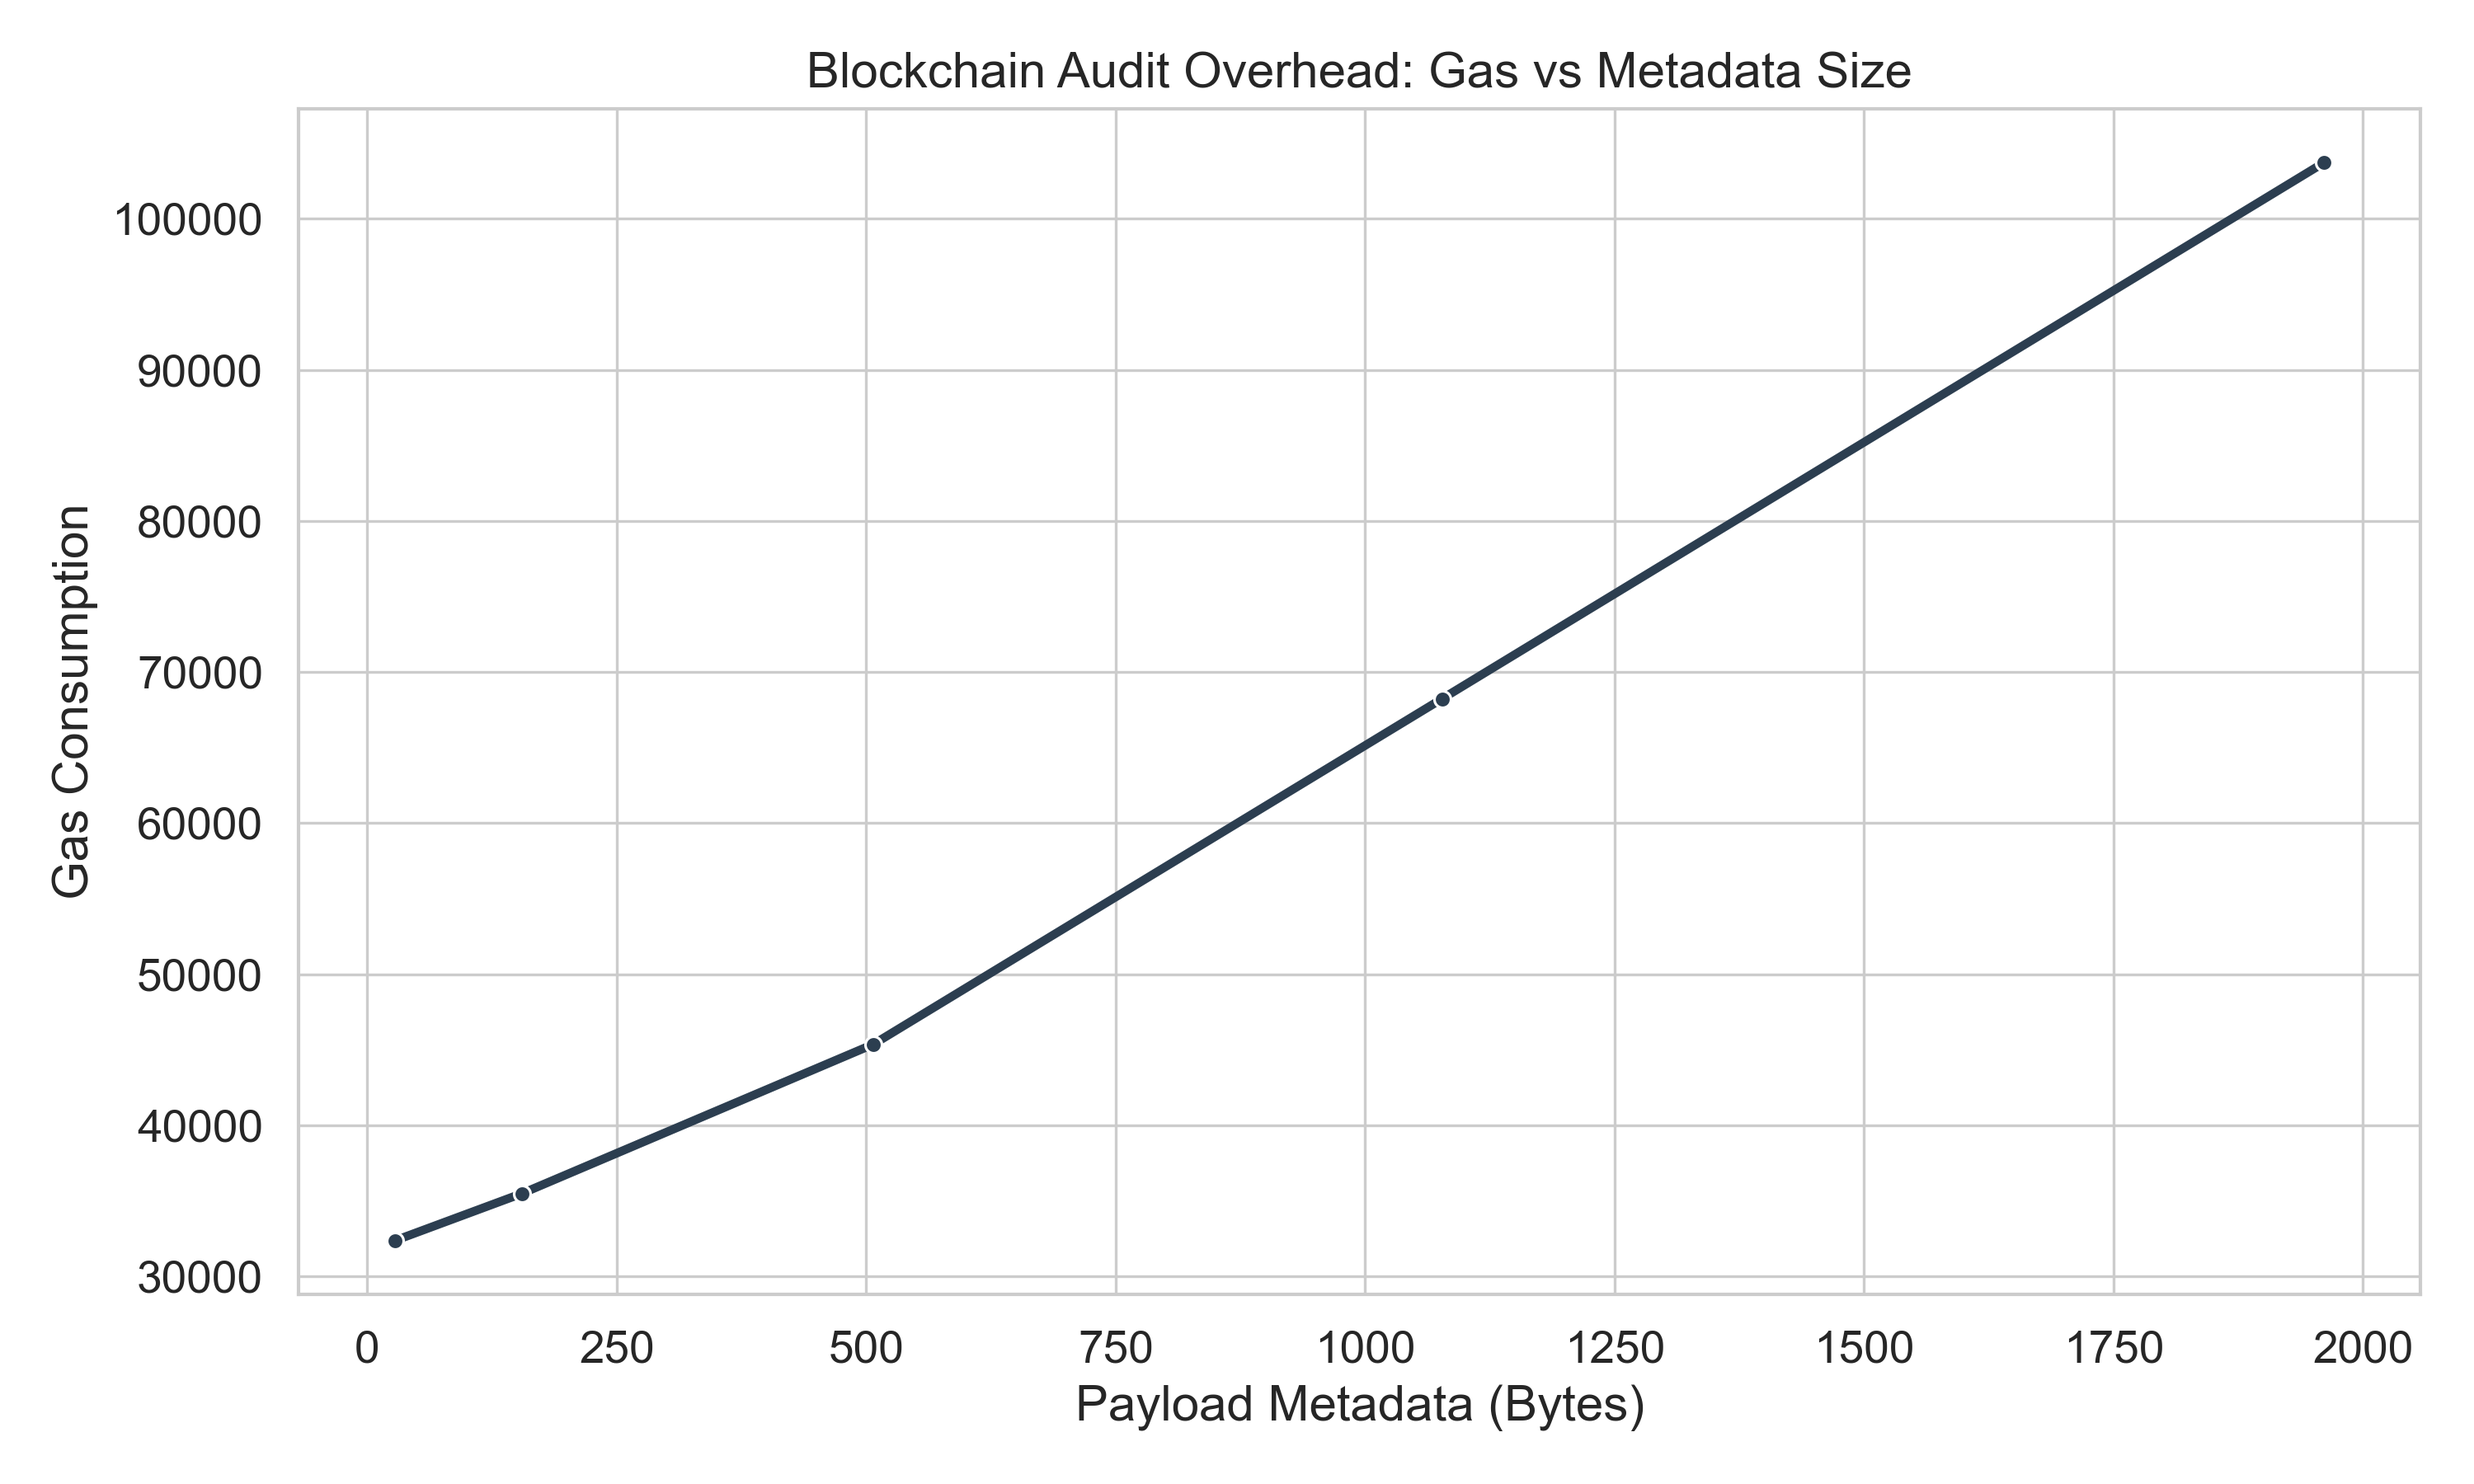
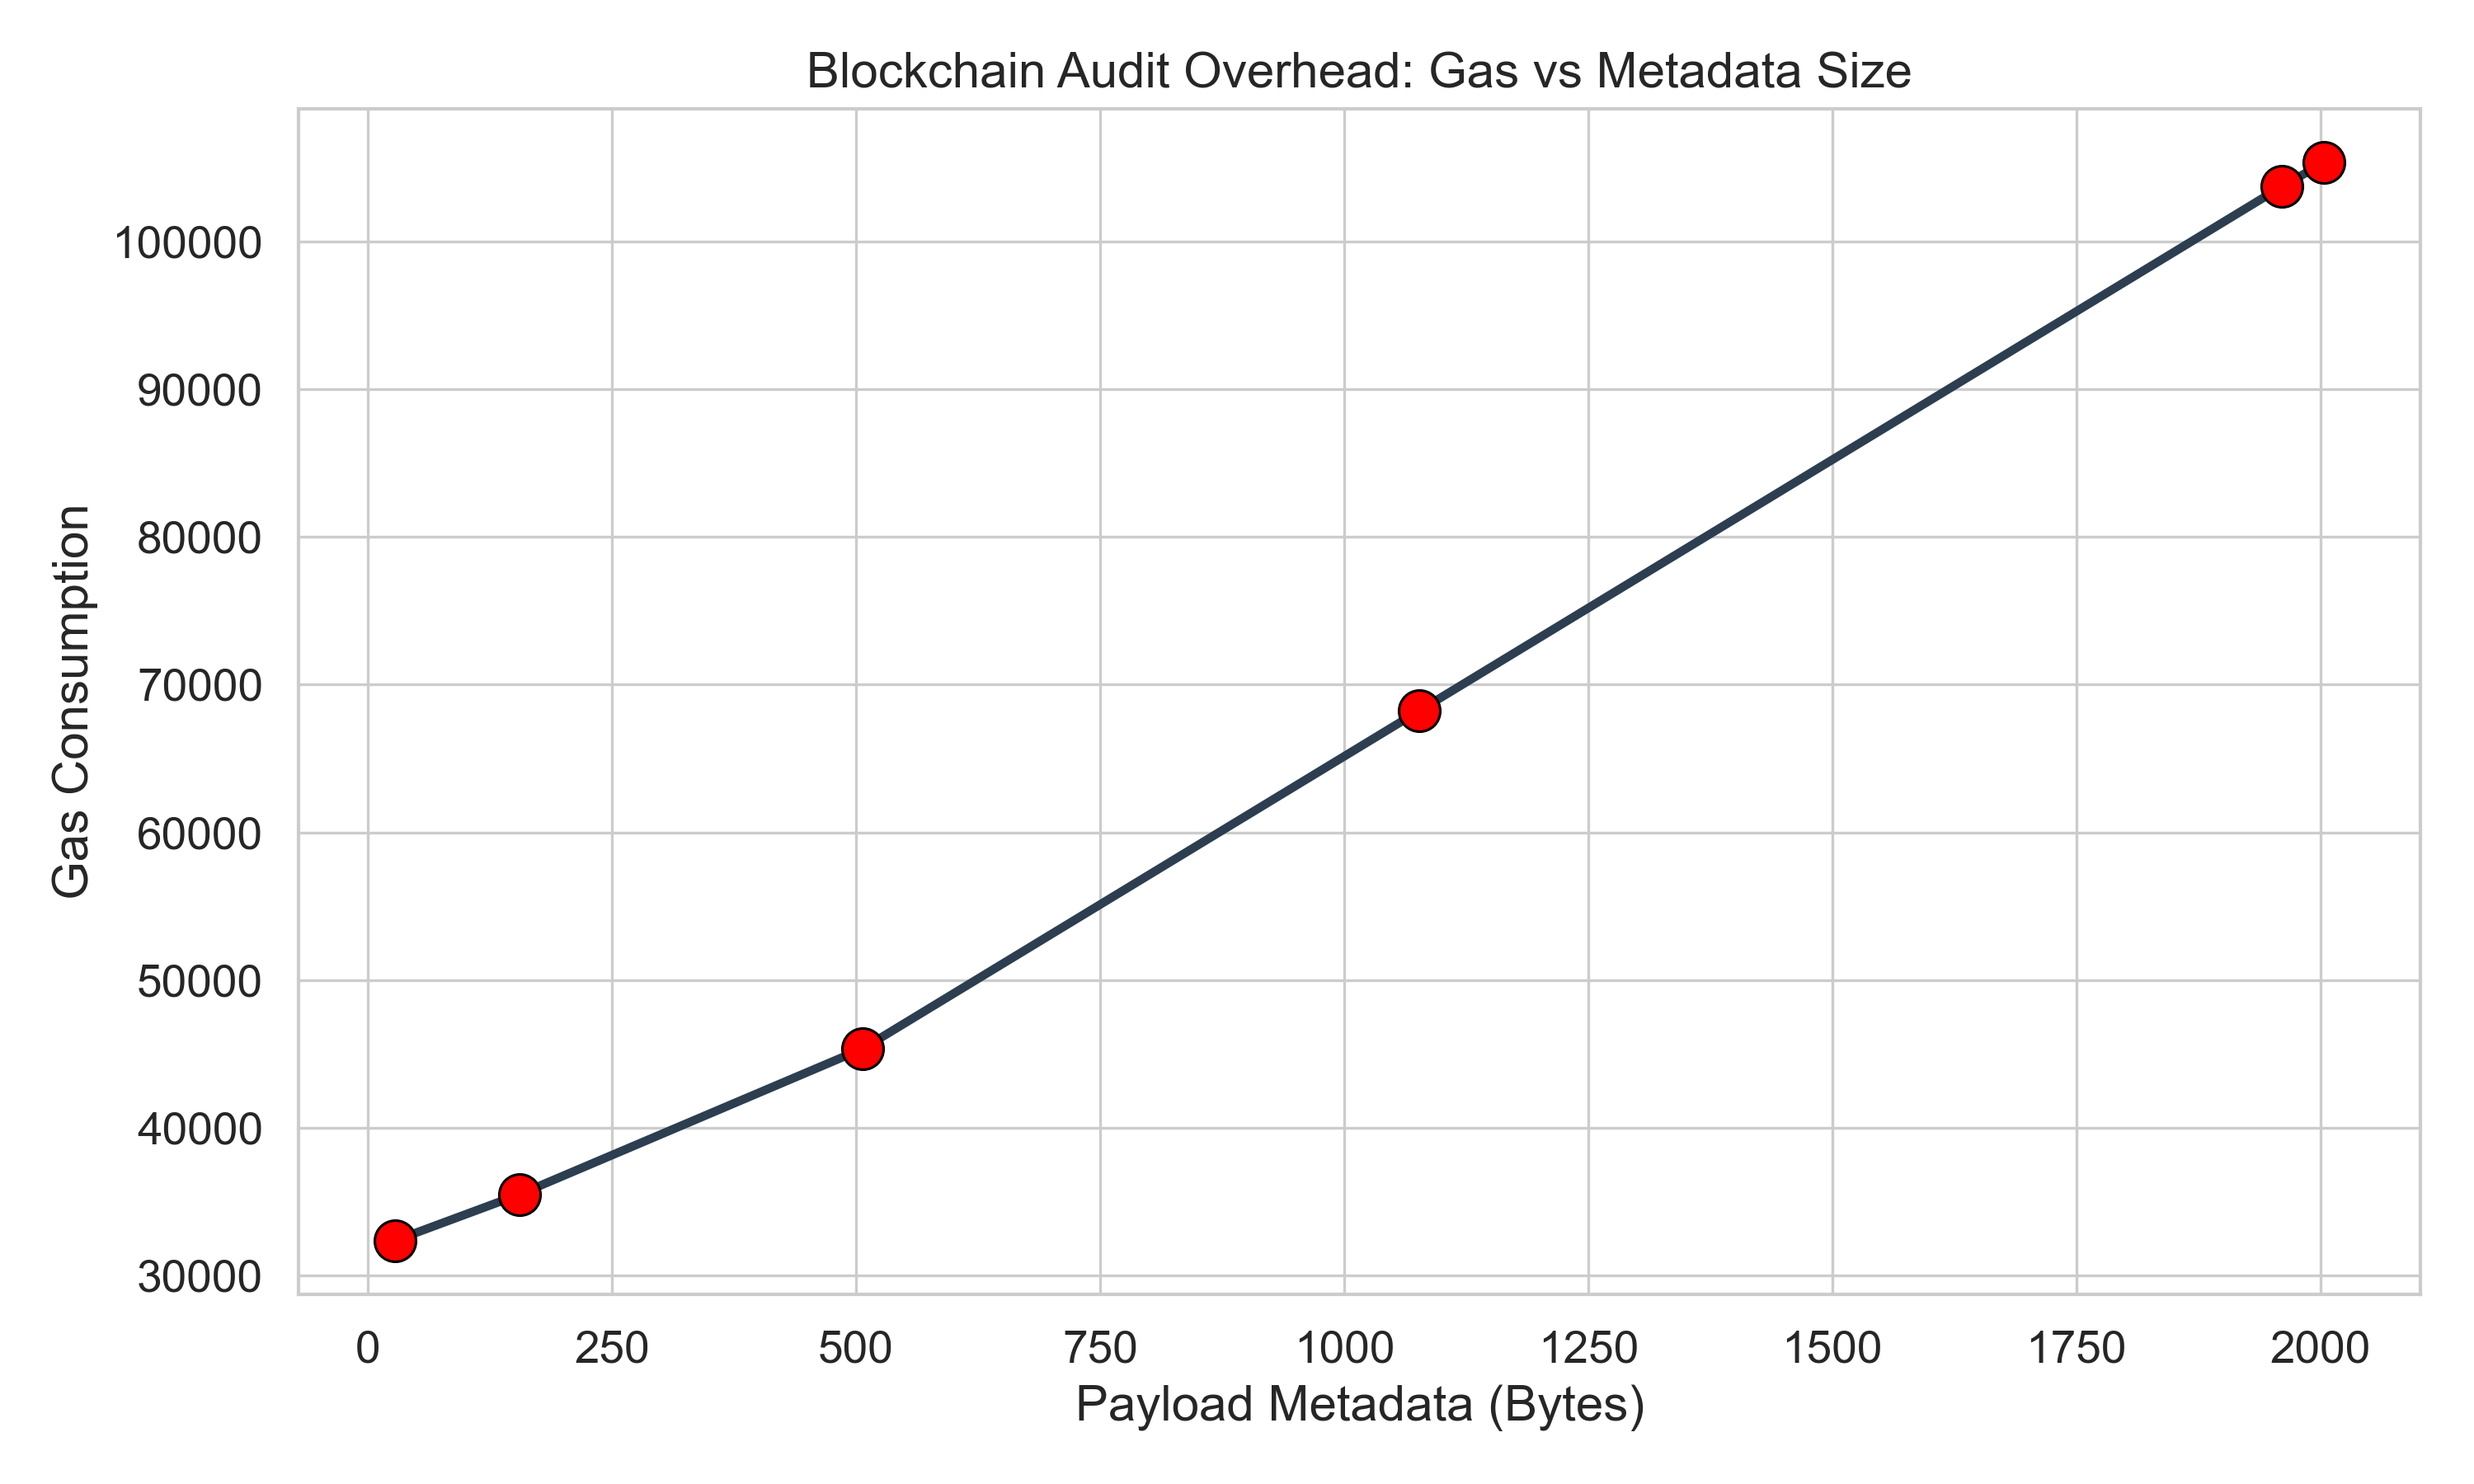
Generated performance graphs 2

diff --git a/backend-server/app/benchmarks/bench_blockchain.py b/backend-server/app/benchmarks/bench_blockchain.py
@@ -12,8 +12,7 @@ if project_root not in sys.path:
 from app.server import log_to_blockchain
 
 def benchmark_blockchain():
-    print("=== Blockchain Auditing Pillar Performance ===")
-    print("[!] Ensure Anvil is running and server.py returns gas used.")
+    print("=== Blockchain Auditing Pillar Performance (6 Scenario Evaluation) ===")
     
     perf_data = {
         "layer": "Blockchain", 
@@ -23,26 +22,26 @@ def benchmark_blockchain():
         "runs": []
     }
 
-    # Drastically varied scenarios to induce big gas variations for graphs
+    # Reverted to 6 scenarios for focused performance scaling
     test_scenarios = [
-        {"user": "alice", "reason": "Normal"},                                     # ~11 bytes
-        {"user": "user_med", "reason": "Standard_Access_Audit_Log_" * 5},          # ~130 bytes
-        {"user": "user_large", "reason": "Authorized_Research_Data_Access_" * 15}, # ~450 bytes
-        {"user": "auditor_xl", "reason": "Security_Context_Shield_Validation_" * 30}, # ~900 bytes
-        {"user": "admin_max", "reason": "Emergency_Override_Full_Audit_Trail_Report_" * 45} # ~2000+ bytes
+        {"user": "alice", "reason": "Normal"},                                     # ~28 bytes
+        {"user": "user_med", "reason": "Standard_Access_Audit_Log_" * 5},          # ~155 bytes
+        {"user": "user_large", "reason": "Authorized_Research_Data_Access_" * 15}, # ~507 bytes
+        {"user": "auditor_xl", "reason": "Security_Context_Shield_Validation_" * 30}, # ~1077 bytes
+        {"user": "admin_max", "reason": "Emergency_Override_Full_Audit_Trail_Report_" * 45}, # ~1961 bytes
+        {"user": "res_xxl", "reason": "Context_Validation_Detailed_Audit_Stream_Log_" * 44}  # ~2200 bytes
     ]
 
     latencies = []
     gas_values = []
 
     for i, scenario in enumerate(test_scenarios):
-        # Calculate approximate bytes being sent in the string fields
-        # This is what you will use for your X-axis in the graph
+        # Calculate approximate bytes: sum of strings + standard overhead
         payload_bytes = len(scenario["user"]) + len(scenario["reason"]) + len(f"file_id_{i}") + len("DOWNLOAD")
         
         start = time.time()
         
-        # Call server.py function which now returns the gasUsed from the receipt
+        # Log to the smart contract (AccessLog.sol)
         gas = log_to_blockchain(
             scenario["user"], 
             f"file_id_{i}", 
@@ -58,7 +57,7 @@ def benchmark_blockchain():
         
         perf_data["runs"].append({
             "scenario_index": i + 1,
-            "payload_bytes": payload_bytes, # Added explicitly for your JSON
+            "payload_bytes": payload_bytes,
             "latency_ms": round(latency, 2),
             "gas_used": gas
         })
@@ -73,13 +72,14 @@ def benchmark_blockchain():
     # Save to file
     output_dir = os.path.join(current_dir, "results")
     os.makedirs(output_dir, exist_ok=True)
-    with open(os.path.join(output_dir, "blockchain_performance.json"), "w") as f:
+    results_path = os.path.join(output_dir, "blockchain_performance.json")
+    with open(results_path, "w") as f:
         json.dump(perf_data, f, indent=4)
     
     print("-" * 40)
     print(f"Average Audit Latency: {perf_data['average_latency_ms']} ms")
     print(f"Average Gas Cost: {perf_data['average_gas_per_tx']}")
-    print(f"[!] Variation Data saved to {output_dir}/blockchain_performance.json")
+    print(f"[!] Results saved to {results_path}")
 
 if __name__ == "__main__":
     benchmark_blockchain()

diff --git a/backend-server/app/benchmarks/plots/generate_performance_charts.py b/backend-server/app/benchmarks/plots/generate_performance_charts.py
@@ -21,32 +21,30 @@ def generate_blockchain_plots():
     
     df = pd.DataFrame(data['runs'])
     
-    # Plot 1: Gas Consumption vs Payload Size (Remains the same)
+    # Plot 1: Gas Consumption vs Payload Size
     plt.figure(figsize=(10, 6))
-    sns.lineplot(data=df, x='payload_bytes', y='gas_used', marker='o', linewidth=2.5, color='#2c3e50')
+    
+    # Customizing markers for maximum visibility
+    sns.lineplot(
+        data=df, 
+        x='payload_bytes', 
+        y='gas_used', 
+        marker='o',          # Circular marker
+        markersize=12,       # Increased size for visibility
+        markerfacecolor='red',# Contrasting color for the marker interior
+        markeredgecolor='black', # Adding an edge for better definition
+        linewidth=2.5, 
+        color='#2c3e50'
+    )
+    
     plt.title('Blockchain Audit Overhead: Gas vs Metadata Size')
     plt.xlabel('Payload Metadata (Bytes)')
     plt.ylabel('Gas Consumption')
     plt.tight_layout()
     plt.savefig(os.path.join(OUTPUT_DIR, "blockchain_gas_vs_size.png"), dpi=300)
     plt.close()
-
-    # Plot 2: UPDATED Latency Chart using Payload Bytes as X-axis
-    plt.figure(figsize=(10, 6))
-    # Convert payload_bytes to string to treat them as discrete categories for the bar plot
-    df['payload_label'] = df['payload_bytes'].astype(str) + " B"
     
-    sns.barplot(data=df, x='payload_label', y='latency_ms', palette='viridis')
-    plt.axhline(data['average_latency_ms'], ls='--', color='red', label=f"Avg: {data['average_latency_ms']}ms")
-    
-    plt.title('Blockchain Audit Latency vs. Metadata Size')
-    plt.xlabel('Actual Payload Size (Bytes)')
-    plt.ylabel('Latency (ms)')
-    plt.legend()
-    plt.tight_layout()
-    plt.savefig(os.path.join(OUTPUT_DIR, "blockchain_latency.png"), dpi=300)
-    plt.close()
-
+   
 def generate_crypto_plots():
     print("[+] Generating Cryptography Charts...")
     with open(os.path.join(RESULTS_DIR, "crypto_performance.json"), "r") as f:
